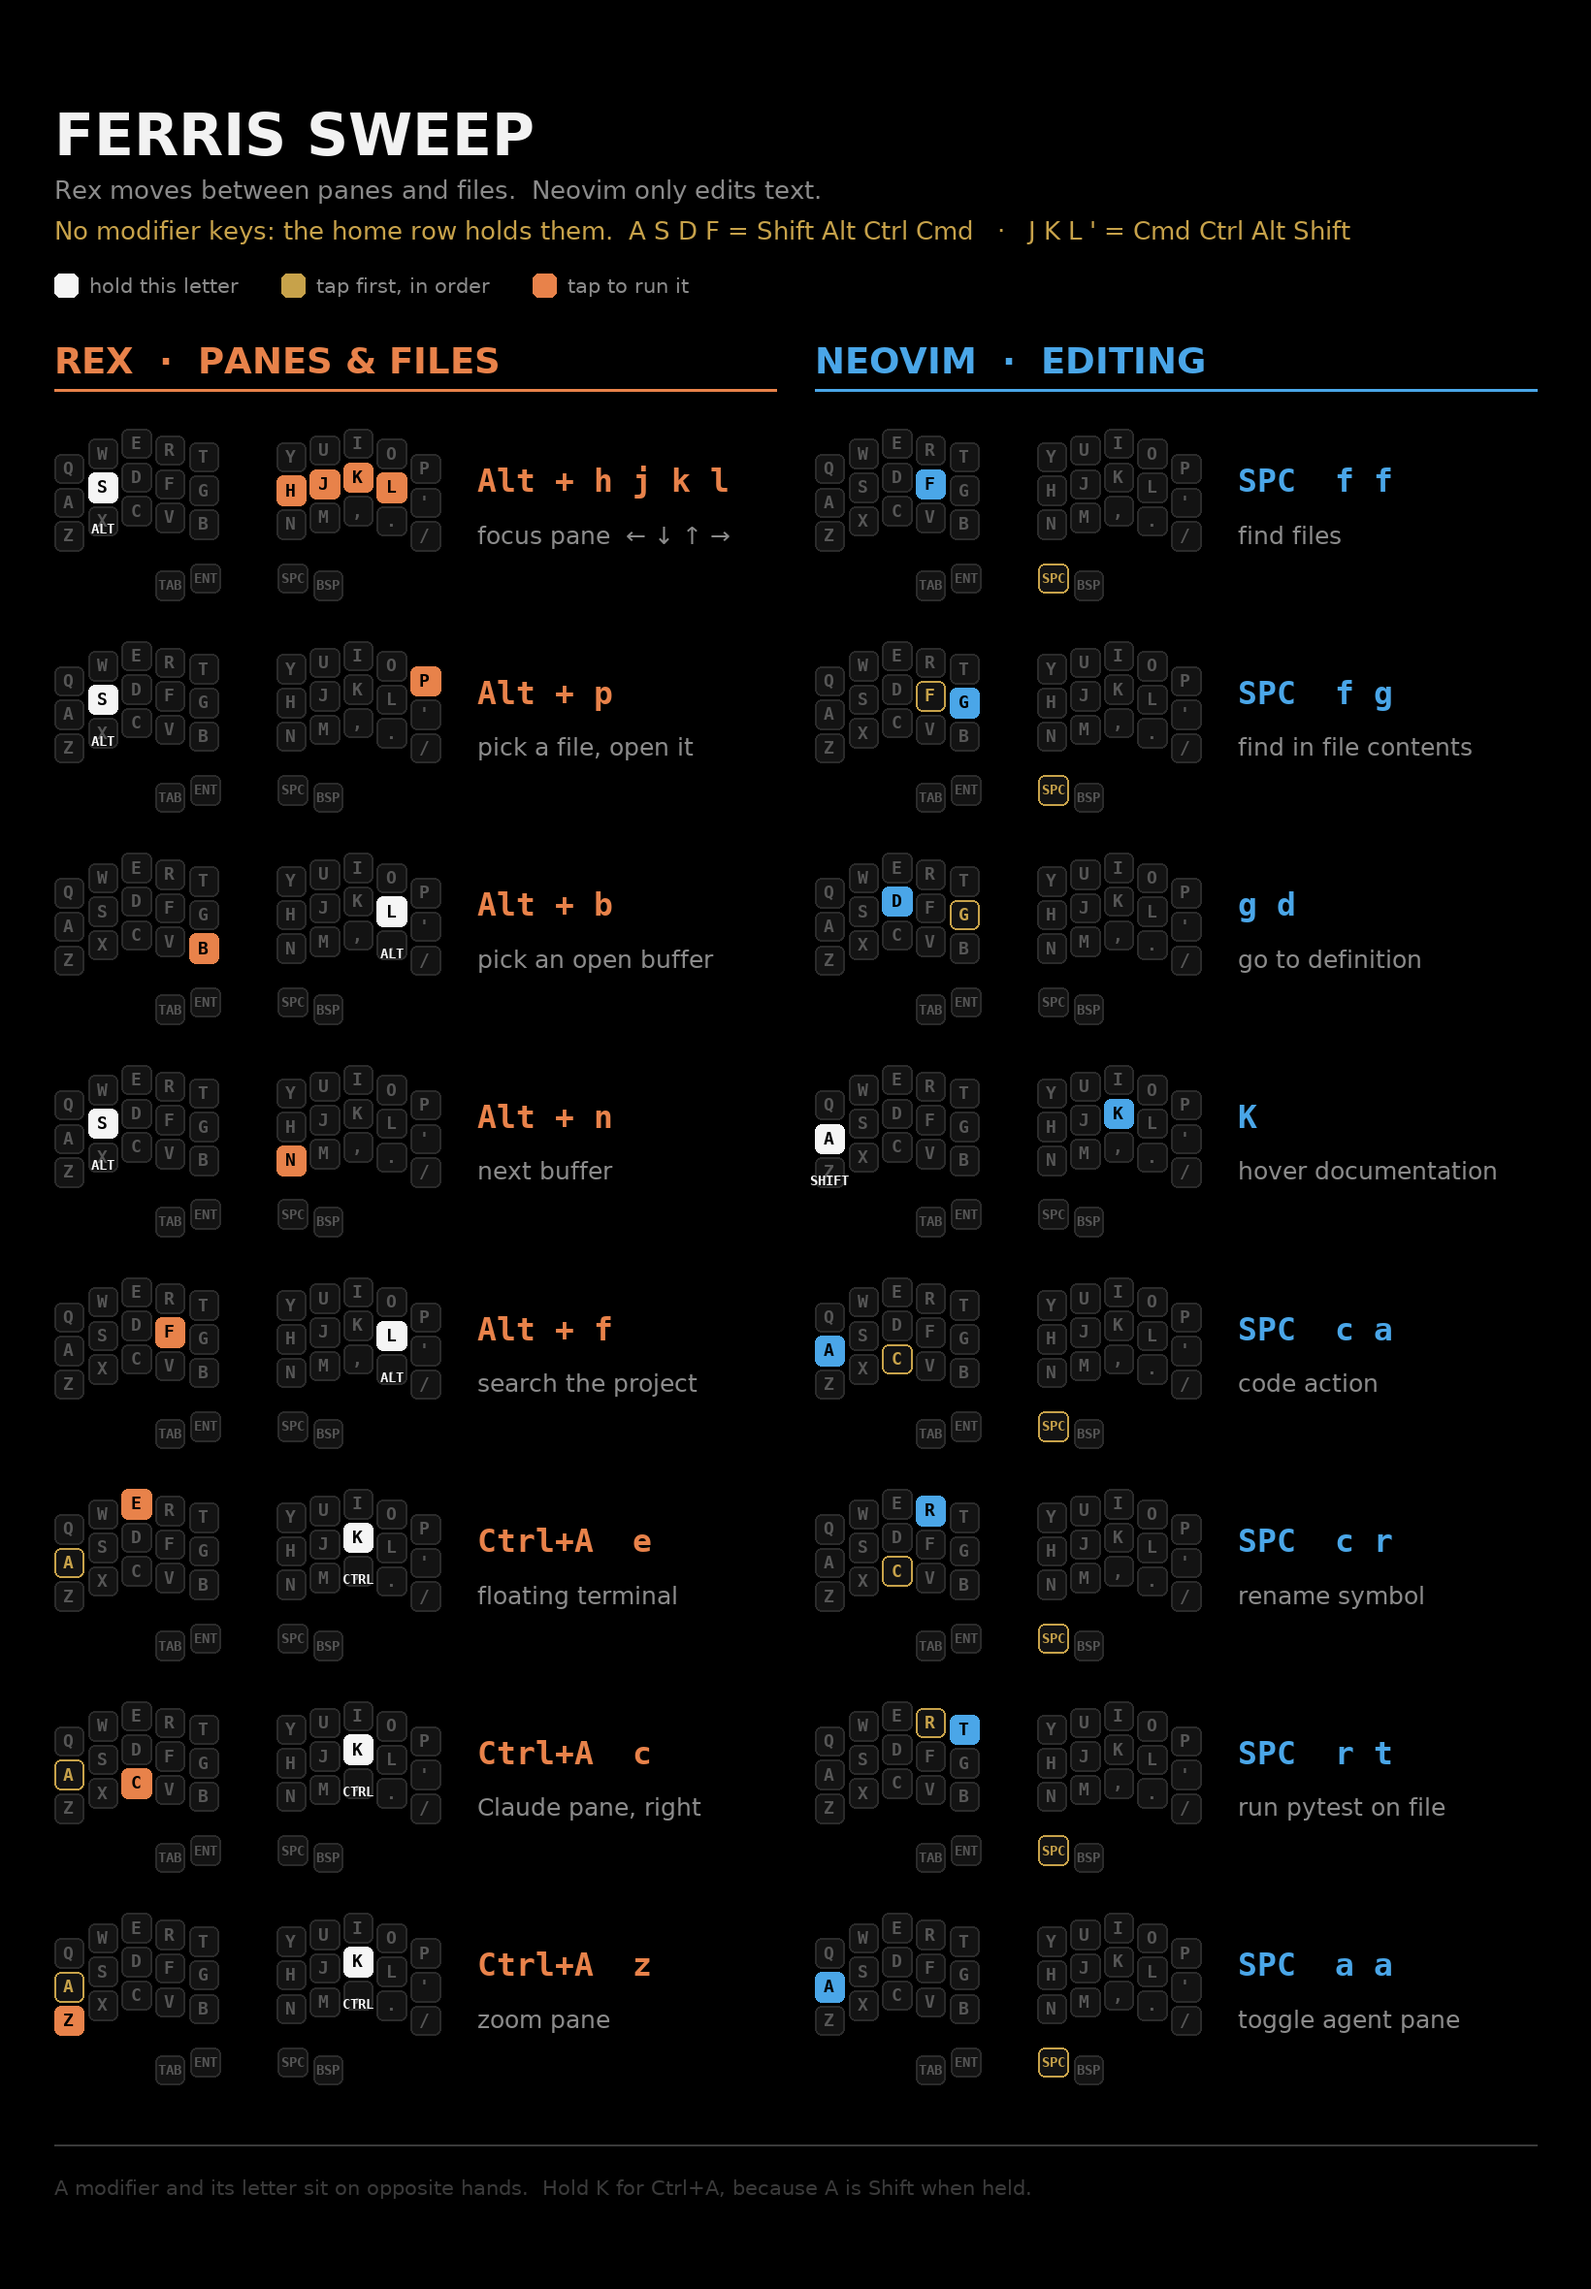
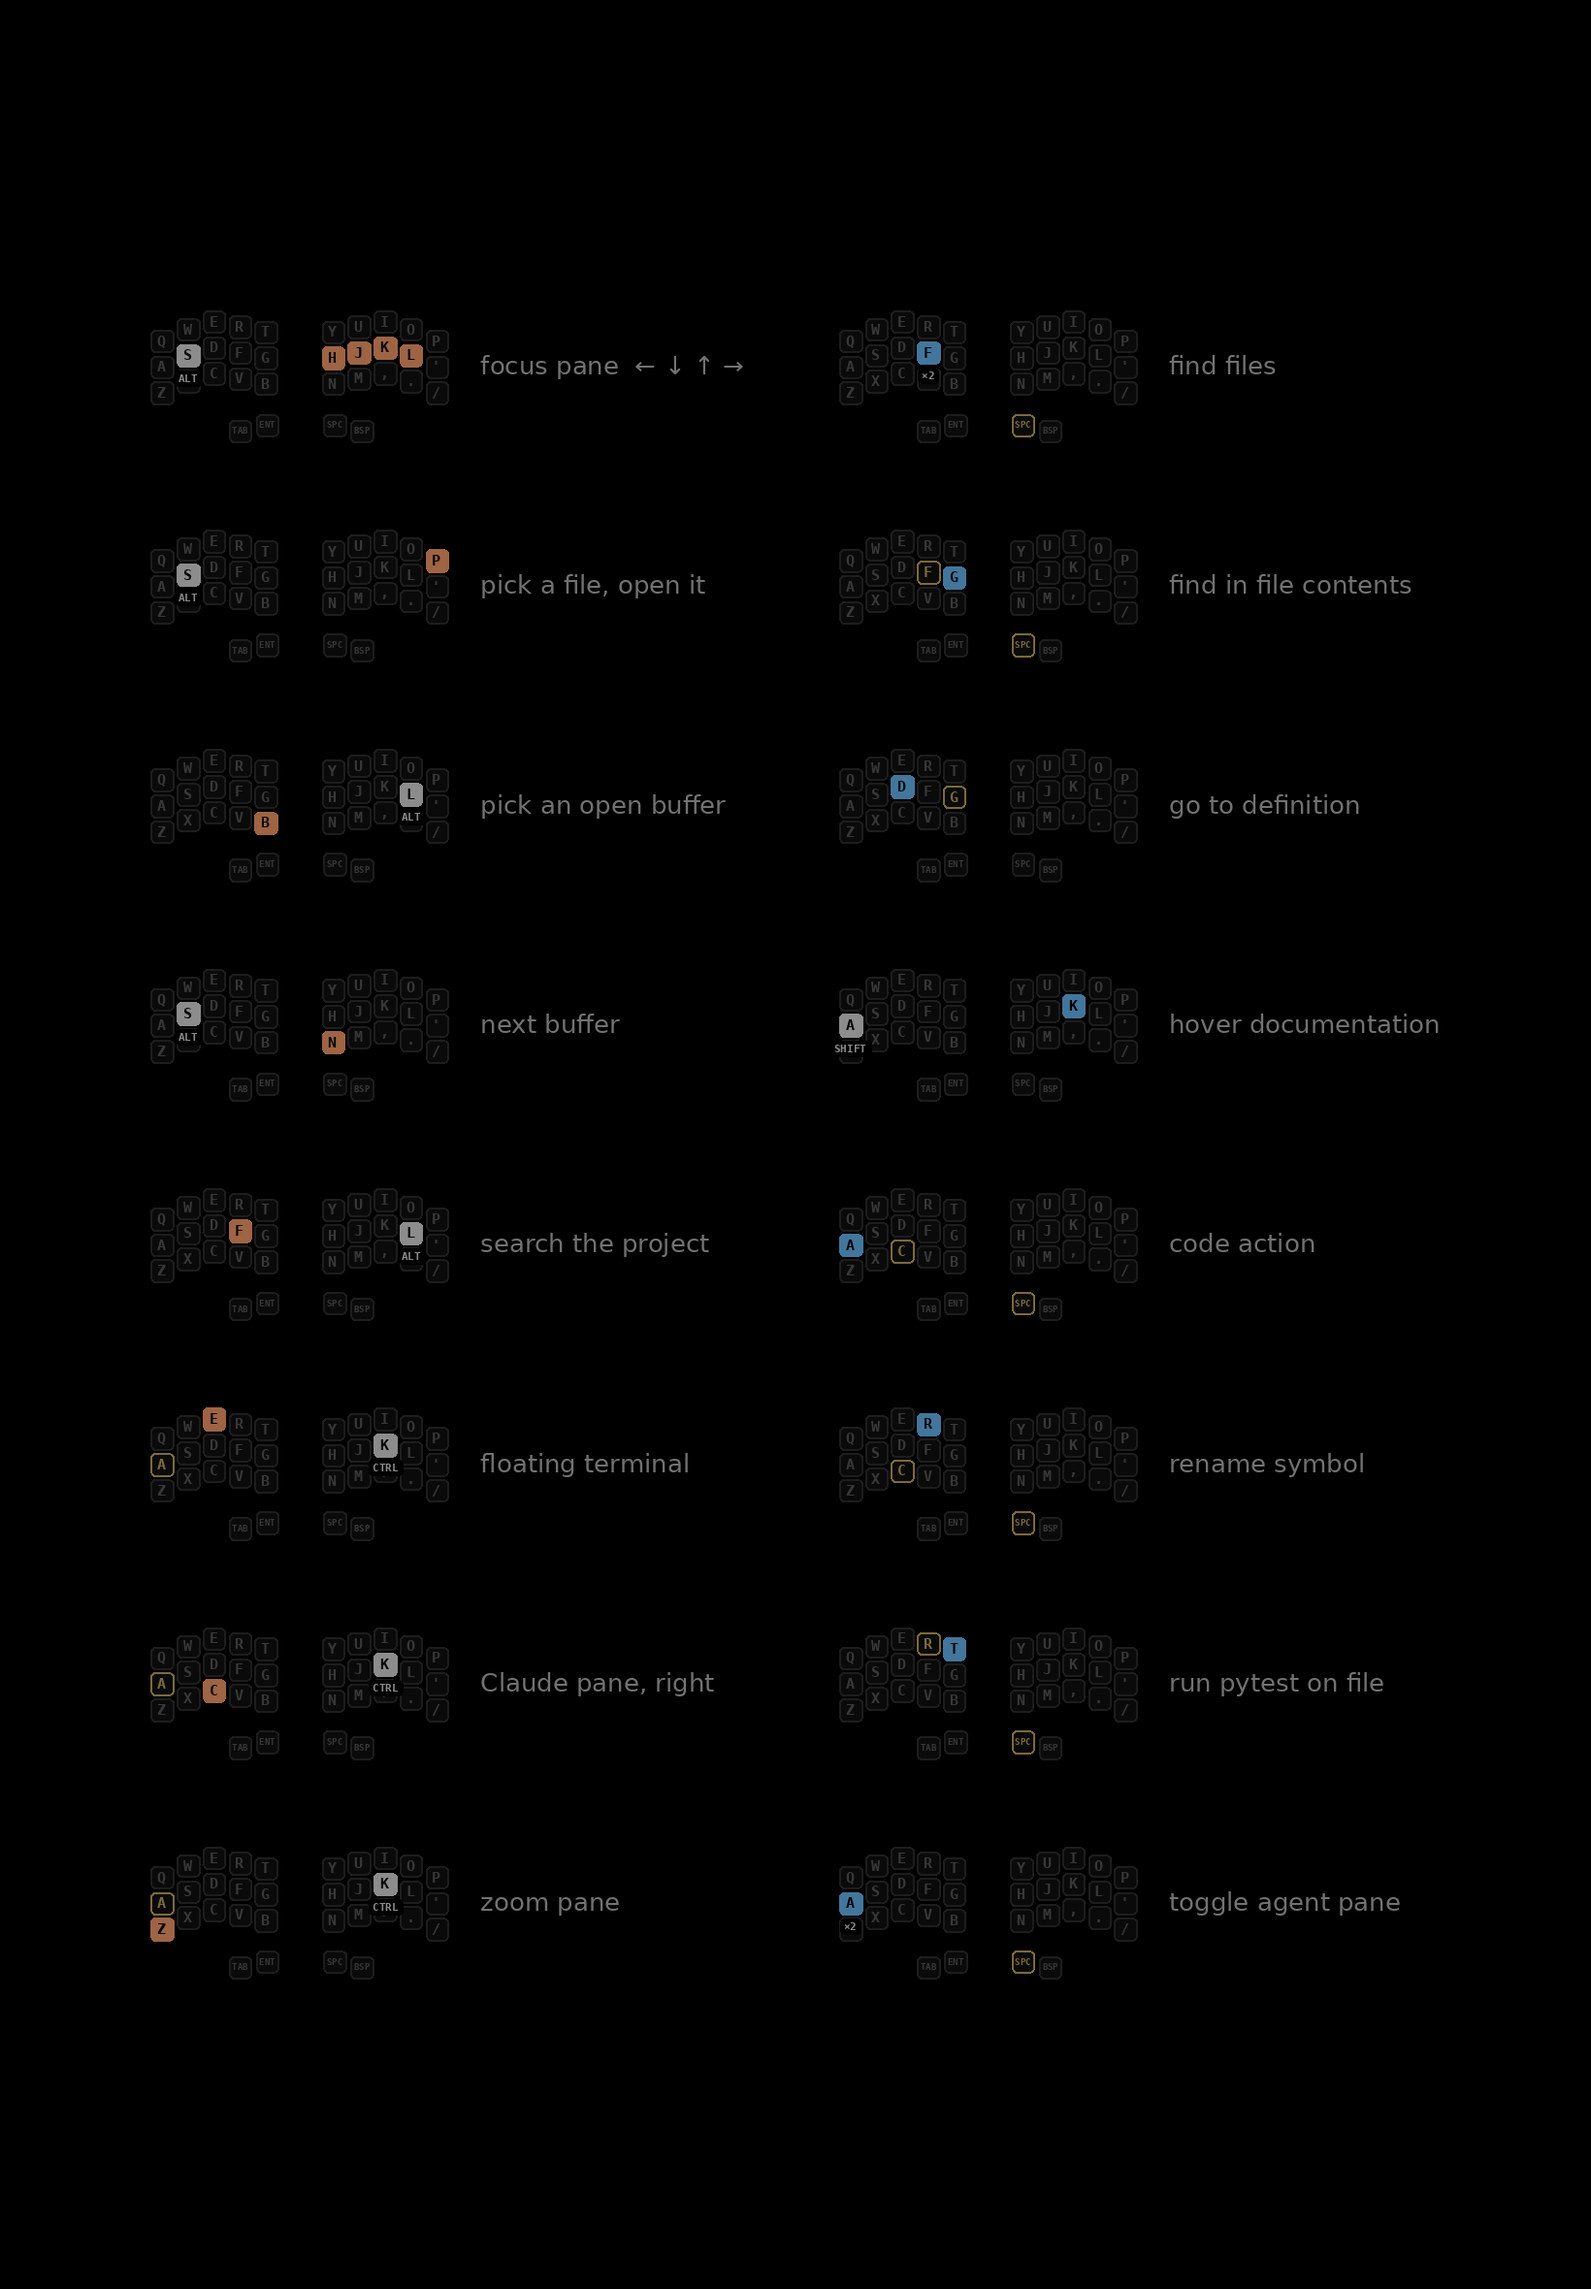
Mute and centre the iPad wallpaper, dropping its headings
The wallpaper drew bright orange, blue and white keys under a title,
legend, section headings and a footer, which stood out against the black
background and ran close to the screen edges. It now shows only the 16
Ferris Sweep rows, each with a one-line description, in muted colours, with
the block centred so at least 150 px of black stays on every side
(155 px left and right, 320 px top and bottom at 1640 x 2360, the iPad Air
11" M3 panel).

Removing the "Alt + p" and "SPC f f" labels would lose the fact that some
sequences tap a key twice, so that key now carries a small x2 tag. The
keyboards shrink from about 373 px to 310 px wide, which is what lets two
columns plus the longest description ("hover documentation") fit inside
the wider margins without shortening any text.

As in 87b8fd4, only the image is committed, not its generator. The
shortcuts are unchanged and were checked against rex/init.lua and
nvim/lua before rendering.

diff --git a/CHANGELOG.md b/CHANGELOG.md
@@ -5,8 +5,11 @@
 ### Changed
 
 - Add the root iPad wallpaper, a black 1640 x 2360 PNG for an iPad Air 11"
-  holding 8 Rex and 8 Neovim shortcuts. Each row draws the Ferris Sweep with
-  its keys lit, naming the home-row letter to hold rather than a modifier this
+  (M3) holding 8 Rex and 8 Neovim shortcuts. It has no title, legend or
+  section headings, only muted colours centred with at least 150 px of black
+  on every side. Each row draws the Ferris Sweep with its keys lit beside a
+  one-line description, with a x2 tag on a key tapped twice, as in Space f f.
+  A row names the home-row letter to hold rather than a modifier this
   keyboard has no key for: Alt+n holds S and Alt+f holds L, because a modifier
   and its letter sit on opposite hands, and Ctrl+A holds K because A is Shift
   when held. The 4 x A4 poster does not yet draw the Alt editor keys, so
